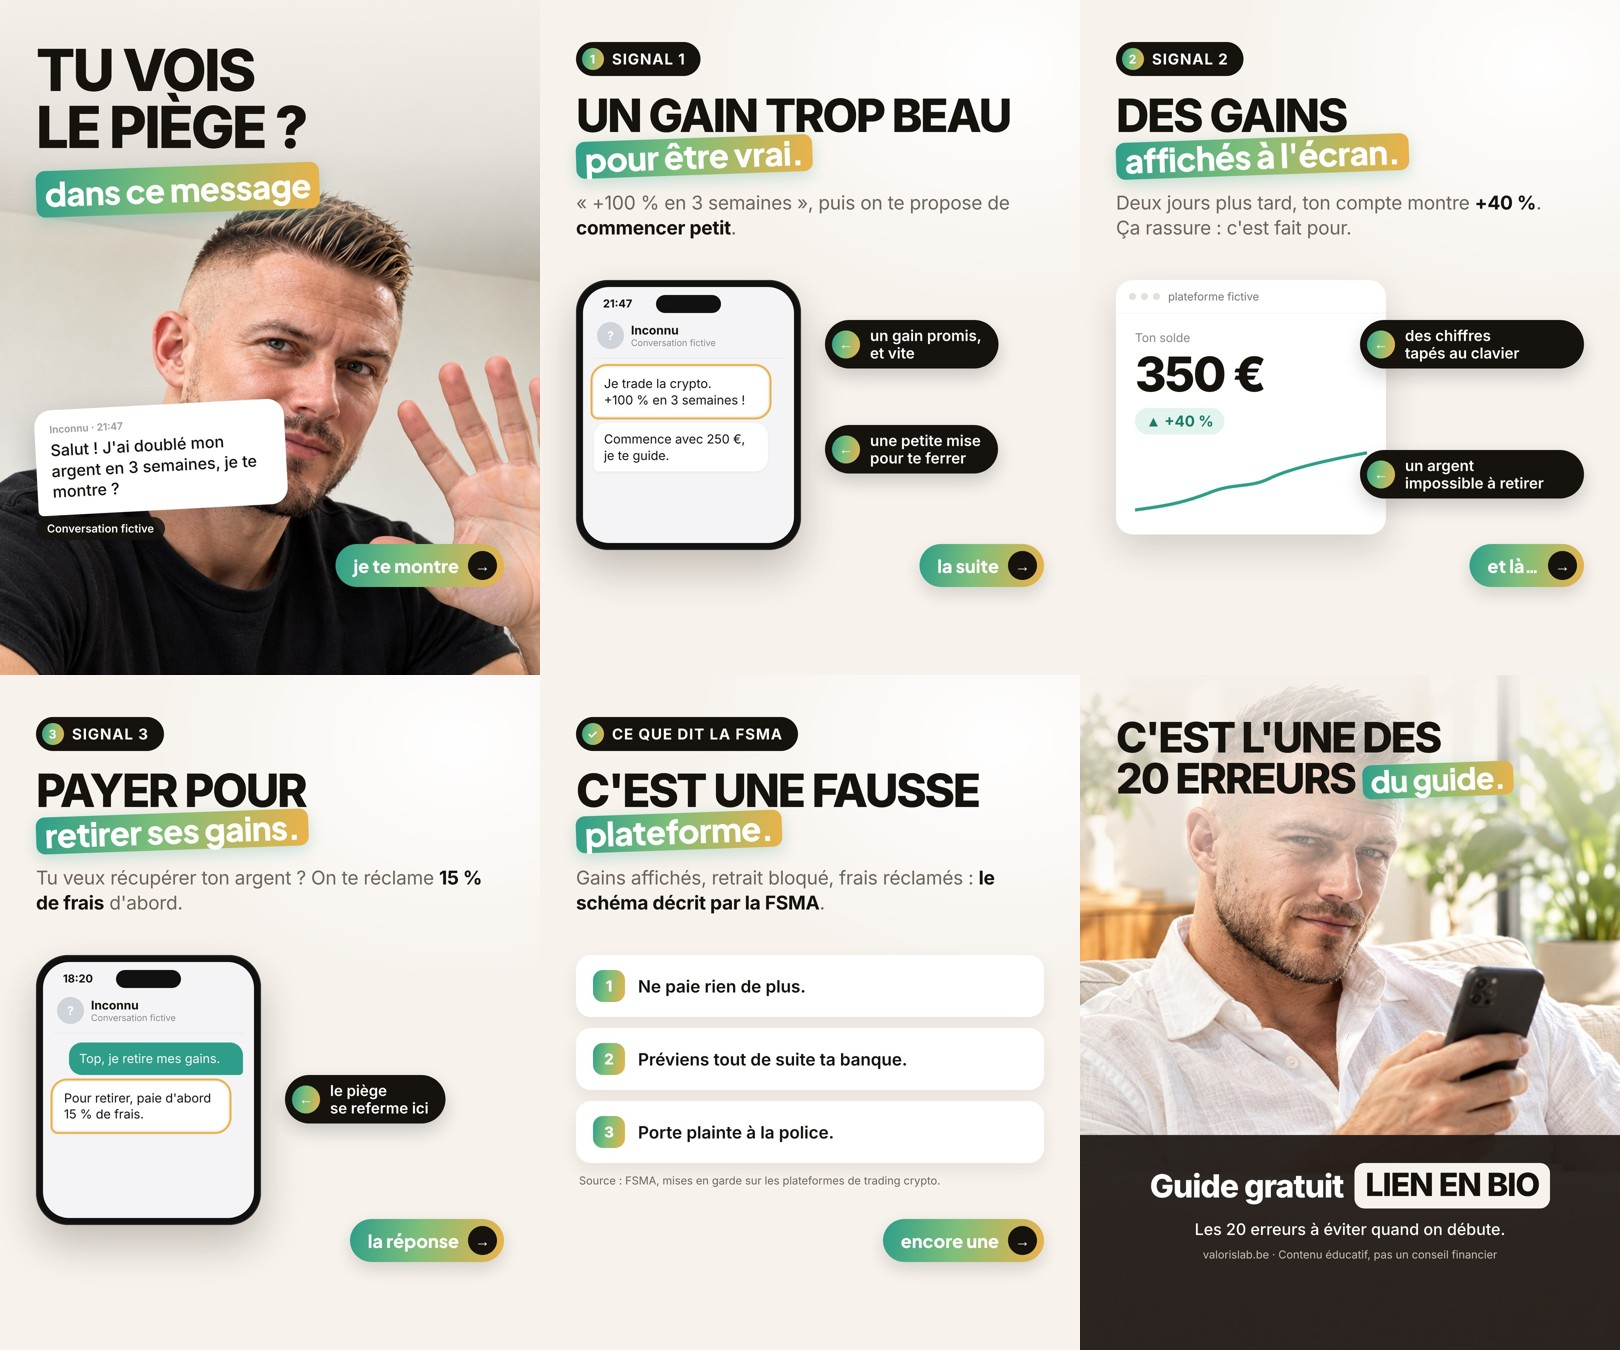
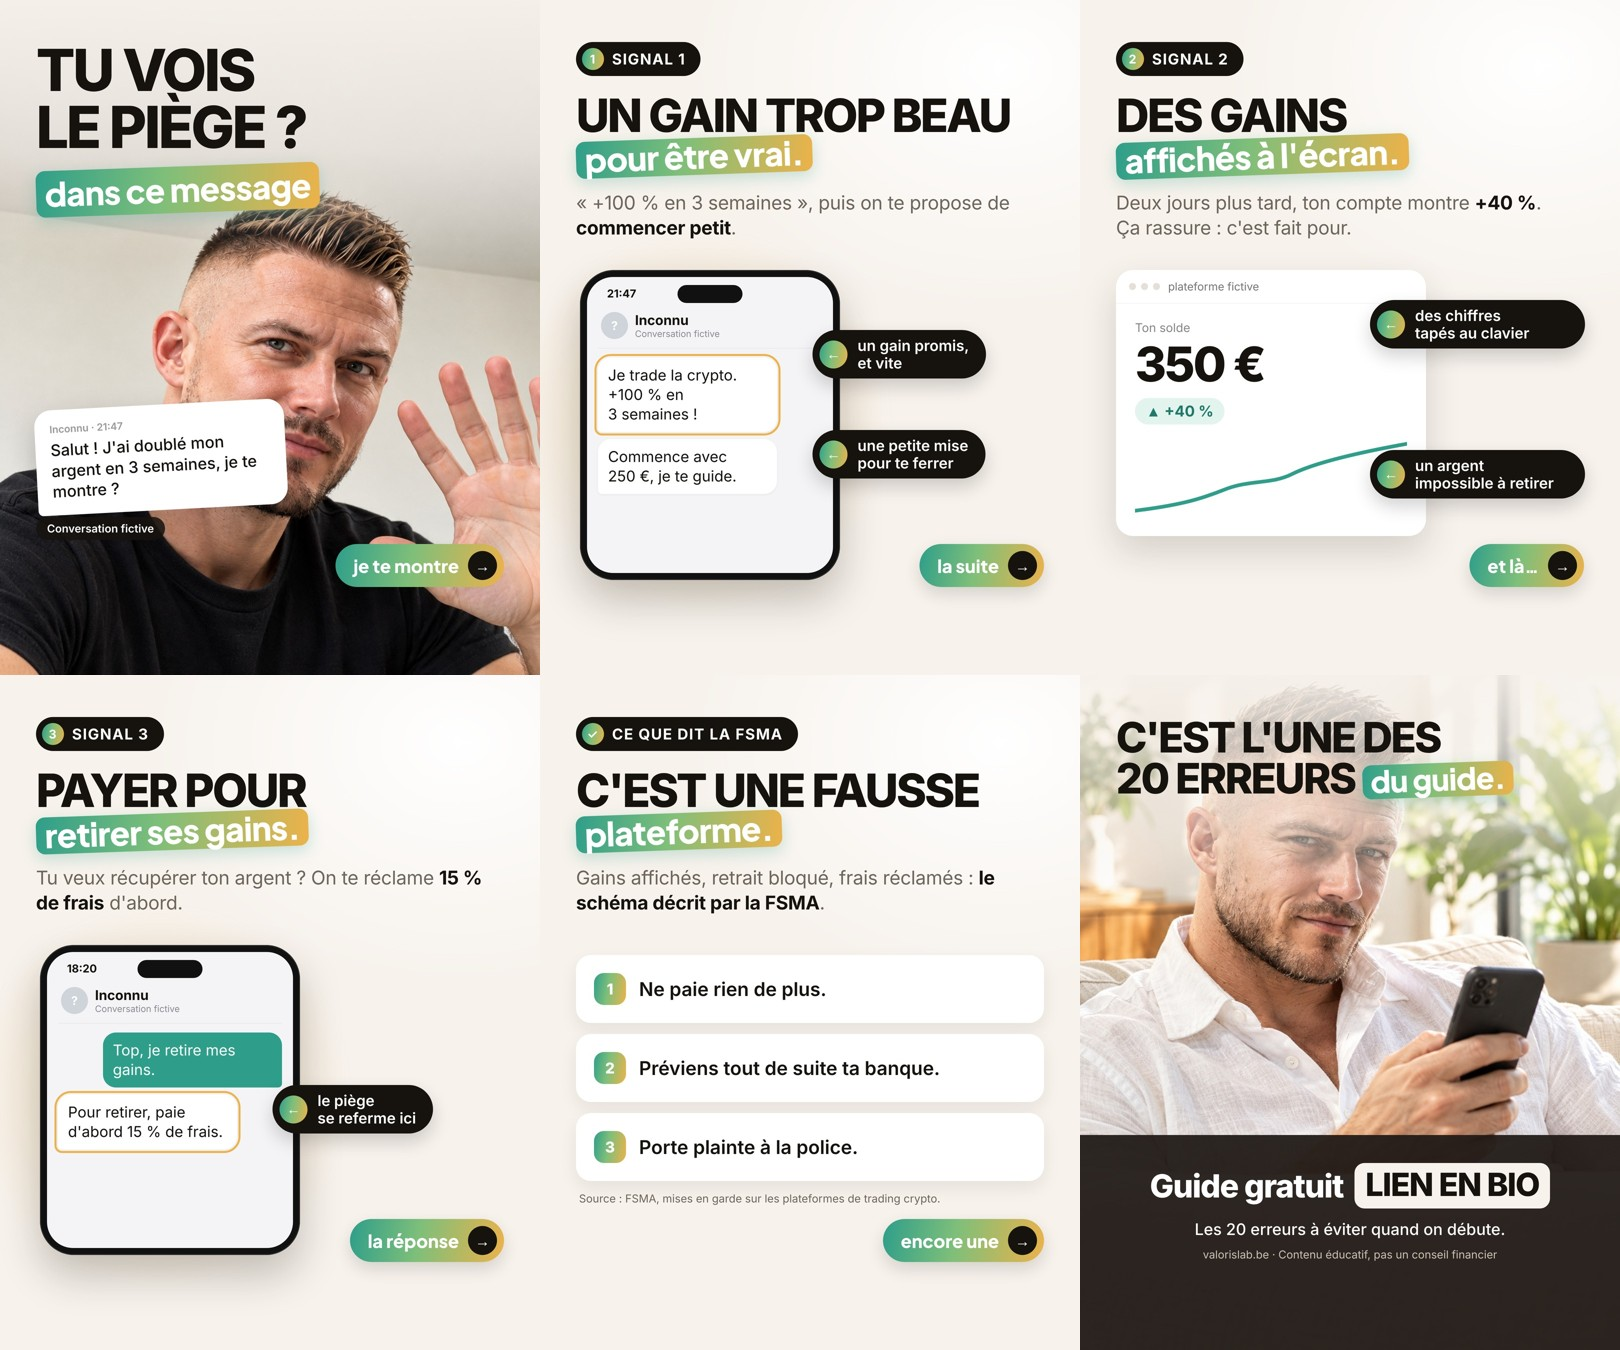
Maquette v7 : écrans plus grands, annotations sur les maquettes
Claude-Session: https://claude.ai/code/session_01TLJLY3cP7rDFrvFg3VEPEL

diff --git a/kit/prototypes/v7-moderne.py b/kit/prototypes/v7-moderne.py
@@ -37,15 +37,16 @@ h1{{font-weight:800;text-transform:uppercase;font-size:92px;line-height:.98;lett
   font-family:J;font-weight:800;font-size:36px;border-radius:999px;padding:14px 14px 14px 36px;box-shadow:0 14px 34px rgba(0,0,0,.14)}}
 .next span{{width:58px;height:58px;border-radius:50%;background:var(--ink);display:grid;place-items:center;font-size:30px}}
 /* phone */
-.phone{{position:absolute;width:450px;height:540px;border-radius:64px;background:#111;padding:14px;
+.glow{{position:absolute;width:760px;height:760px;border-radius:50%;background:radial-gradient(closest-side,rgba(127,191,122,.28),rgba(237,178,74,.12) 60%,transparent);filter:blur(10px)}}
+.phone{{position:absolute;width:520px;height:620px;border-radius:68px;background:#111;padding:14px;
   box-shadow:0 40px 80px rgba(40,30,20,.25),0 0 0 2px #2a2a2a inset}}
 .scr{{width:100%;height:100%;border-radius:52px;background:#F4F4F6;overflow:hidden;position:relative;padding:62px 22px 20px}}
 .isl{{position:absolute;top:16px;left:50%;transform:translateX(-50%);width:130px;height:36px;border-radius:20px;background:#111}}
 .tm{{position:absolute;top:20px;left:40px;font-weight:700;font-size:22px}}
 .ch{{display:flex;align-items:center;gap:14px;padding:8px 6px 18px;border-bottom:1px solid #e3e3e8;margin-bottom:18px}}
 .av{{width:54px;height:54px;border-radius:50%;background:#cfd3da;display:grid;place-items:center;font-weight:700;color:#fff;font-size:24px}}
-.ch b{{display:block;font-size:24px}} .ch small{{font-size:18px;color:#8a8a92}}
-.m{{max-width:92%;font-size:25px;line-height:1.3;padding:16px 20px;border-radius:26px;margin-bottom:14px}}
+.ch b{{display:block;font-size:27px}} .ch small{{font-size:18px;color:#8a8a92}}
+.m{{max-width:80%;font-size:30px;line-height:1.3;padding:16px 20px;border-radius:26px;margin-bottom:14px}}
 .them{{background:#fff;border-bottom-left-radius:8px;box-shadow:0 2px 6px rgba(0,0,0,.05)}}
 .me{{background:#2E9E8A;color:#fff;margin-left:auto;border-bottom-right-radius:8px}}
 .m.alert{{outline:4px solid #EDB24A;outline-offset:3px}}
@@ -58,7 +59,7 @@ h1{{font-weight:800;text-transform:uppercase;font-size:92px;line-height:.98;lett
 .wbar{{display:flex;gap:10px;align-items:center;padding:20px 26px;border-bottom:1px solid #eee;font-size:22px;color:#777}}
 .wbar u{{width:14px;height:14px;border-radius:50%;background:#e4dfd8;text-decoration:none}}
 .cards{{position:absolute;left:72px;right:72px;display:grid;gap:22px}}
-.card{{background:#fff;border-radius:30px;padding:30px 34px;display:flex;gap:26px;align-items:center;box-shadow:0 14px 34px rgba(40,30,20,.08);font-size:34px;font-weight:600}}
+.card{{background:#fff;border-radius:30px;padding:36px 36px;display:flex;gap:26px;align-items:center;box-shadow:0 14px 34px rgba(40,30,20,.08);font-size:38px;font-weight:600}}
 .card i{{flex:none;width:64px;height:64px;border-radius:20px;background:var(--grad);color:#fff;display:grid;place-items:center;font-style:normal;font-weight:800;font-size:30px}}
 .src{{position:absolute;left:72px;right:72px;bottom:290px;font-size:22px;color:var(--mute)}}
 .photo{{position:absolute;inset:0;background-size:cover;background-position:center}}
@@ -74,8 +75,9 @@ h1{{font-weight:800;text-transform:uppercase;font-size:92px;line-height:.98;lett
 """
 
 def phone(x, y, time, msgs, contact="Inconnu", status="Conversation fictive"):
+    g = f'<div class="glow" style="left:{x-140}px;top:{y-80}px"></div>'
     m = "".join(f'<div class="m {c}">{t}</div>' for c, t in msgs)
-    return f'''<div class="phone" style="left:{x}px;top:{y}px"><div class="scr"><div class="isl"></div><div class="tm">{time}</div>
+    return g + f'''<div class="phone" style="left:{x}px;top:{y}px"><div class="scr"><div class="isl"></div><div class="tm">{time}</div>
 <div class="ch"><div class="av">?</div><div><b>{contact}</b><small>{status}</small></div></div>{m}</div></div>'''
 
 def ann(x, y, text, w=None):
@@ -96,26 +98,26 @@ slides.append(f'''<div class="s"><div class="photo" style="background-image:url(
 slides.append(f'''<div class="s"><div class="pad"><div class="badge"><i>1</i>SIGNAL 1</div>
 <h1>Un gain trop beau <span class="hl">pour être vrai.</span></h1>
 <p class="sub">« +100 % en 3 semaines », puis on te propose de <b>commencer petit</b>.</p></div>
-{phone(72, 560, "21:47", [("them alert","Je trade la crypto. +100&nbsp;% en 3&nbsp;semaines&nbsp;!"),("them","Commence avec 250&nbsp;€, je te guide.")])}
-{ann(570, 640, "un gain promis,<br>et vite")}{ann(570, 850, "une petite mise<br>pour te ferrer")}
+{phone(80, 540, "21:47", [("them alert","Je trade la crypto. +100&nbsp;% en 3&nbsp;semaines&nbsp;!"),("them","Commence avec 250&nbsp;€, je te guide.")])}
+{ann(545, 660, "un gain promis,<br>et vite")}{ann(545, 860, "une petite mise<br>pour te ferrer")}
 {NEXT.format(t="la suite")}</div>''')
 # 3 signal 2
 slides.append(f'''<div class="s"><div class="pad"><div class="badge"><i>2</i>SIGNAL 2</div>
 <h1>Des gains <span class="hl">affichés à l'écran.</span></h1>
 <p class="sub">Deux jours plus tard, ton compte montre <b>+40 %</b>. Ça rassure : c'est fait pour.</p></div>
-<div class="win" style="left:72px;top:560px;width:540px"><div class="wbar"><u></u><u></u><u></u>&nbsp;plateforme fictive</div>
+<div class="win" style="left:72px;top:540px;width:620px"><div class="wbar"><u></u><u></u><u></u>&nbsp;plateforme fictive</div>
 <div style="padding:34px 38px 40px"><div style="font-size:24px;color:#888">Ton solde</div>
 <div style="font-weight:800;font-size:96px;letter-spacing:-.04em">350 €</div>
 <div style="display:inline-block;margin-top:10px;background:#E3F4EE;color:#1F7A69;font-weight:700;font-size:30px;border-radius:999px;padding:8px 22px">▲ +40 %</div>
 <svg viewBox="0 0 520 150" style="margin-top:26px;width:100%"><path d="M0 140 C80 130 120 120 170 100 S260 90 300 70 S420 30 520 12" fill="none" stroke="#2E9E8A" stroke-width="7" stroke-linecap="round"/></svg></div></div>
-{ann(560, 640, "des chiffres<br>tapés au clavier", 448)}{ann(560, 900, "un argent<br>impossible à retirer", 448)}
+{ann(580, 600, "des chiffres<br>tapés au clavier", 430)}{ann(580, 900, "un argent<br>impossible à retirer", 430)}
 {NEXT.format(t="et là…")}</div>''')
 # 4 signal 3
 slides.append(f'''<div class="s"><div class="pad"><div class="badge"><i>3</i>SIGNAL 3</div>
 <h1>Payer pour <span class="hl">retirer ses gains.</span></h1>
 <p class="sub">Tu veux récupérer ton argent ? On te réclame <b>15 % de frais</b> d'abord.</p></div>
-{phone(72, 560, "18:20", [("me","Top, je retire mes gains."),("them alert","Pour retirer, paie d'abord 15&nbsp;% de frais.")])}
-{ann(570, 800, "le piège<br>se referme ici")}
+{phone(80, 540, "18:20", [("me","Top, je retire mes gains."),("them alert","Pour retirer, paie d'abord 15&nbsp;% de frais.")])}
+{ann(545, 820, "le piège<br>se referme ici")}
 {NEXT.format(t="la réponse")}</div>''')
 # 5 reveal
 slides.append(f'''<div class="s"><div class="pad"><div class="badge"><i>✓</i>CE QUE DIT LA FSMA</div>
@@ -143,7 +145,7 @@ with sync_playwright() as p:
         pg.wait_for_timeout(250)
         # mesure : rien ne sort du cadre, rien dans les 160 px du bas (sauf fonds)
         bad = pg.evaluate("""()=>[...document.querySelectorAll('h1,.sub,.ann,.phone,.win,.card,.next,.bubble,.badge,.src,.tag,.band .big')].map(e=>{const r=e.getBoundingClientRect();return [e.className||e.tagName,Math.round(r.left),Math.round(r.right),Math.round(r.bottom)]}).filter(([c,l,r,b])=>l<40||r>1040||b>1190)""")
-        over = pg.evaluate("""()=>{const a=[...document.querySelectorAll('.ann,.phone,.card,.next,.bubble,.tag,.sub,h1,.src')].map(e=>[e.className||e.tagName,e.getBoundingClientRect()]);const o=[];for(let i=0;i<a.length;i++)for(let j=i+1;j<a.length;j++){const[x,r]=a[i],[y,s]=a[j];if(r.left<s.right&&s.left<r.right&&r.top<s.bottom&&s.top<r.bottom)o.push(x+' x '+y)}return o}""")
+        over = pg.evaluate("""()=>{const a=[...document.querySelectorAll('.ann,.phone,.win,.card,.next,.bubble,.tag,.sub,h1,.src')].map(e=>[e.className||e.tagName,e.getBoundingClientRect()]);const o=[];for(let i=0;i<a.length;i++)for(let j=i+1;j<a.length;j++){const[x,r]=a[i],[y,s]=a[j];if(!((x.includes('ann')&&(y.includes('phone')||y.includes('win')))||(y.includes('ann')&&(x.includes('phone')||x.includes('win'))))&&r.left<s.right&&s.left<r.right&&r.top<s.bottom&&s.top<r.bottom)o.push(x+' x '+y)}return o}""")
         print(i, "hors cadre:", bad, "chevauchements:", over)
         f = OUT / f"s{i}.png"
         pg.screenshot(path=str(f))
